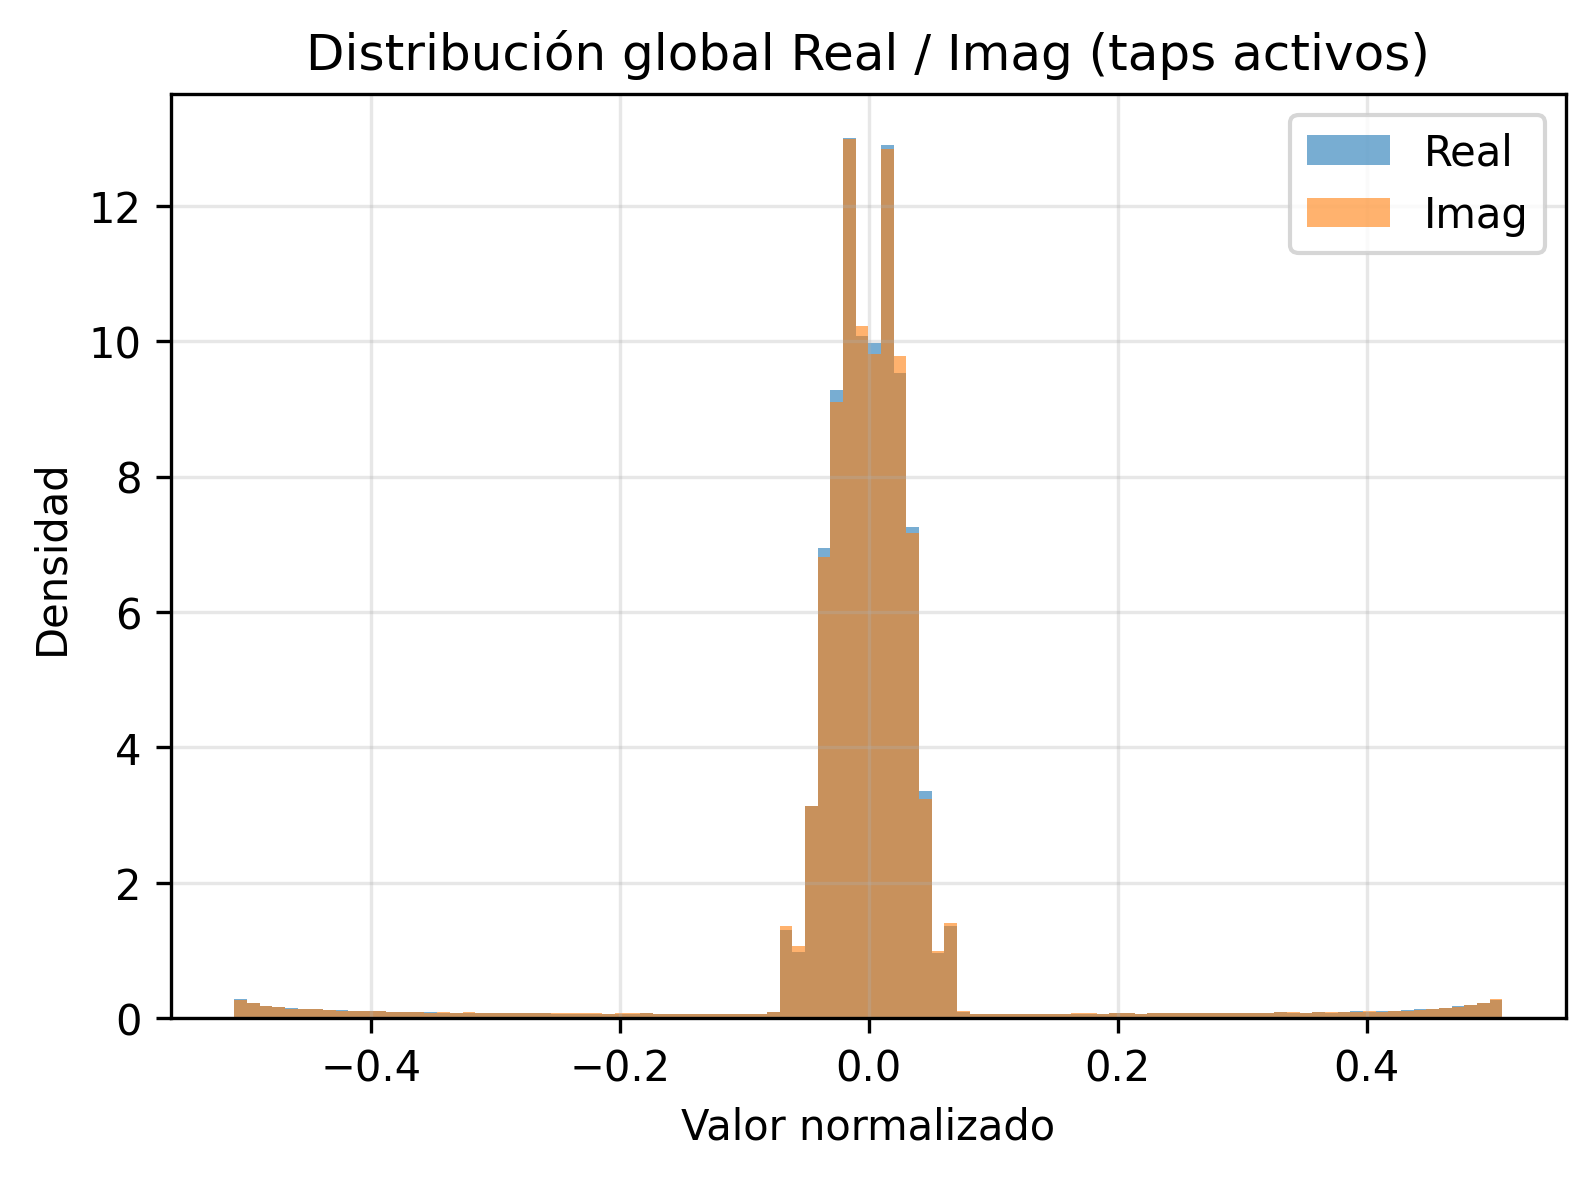
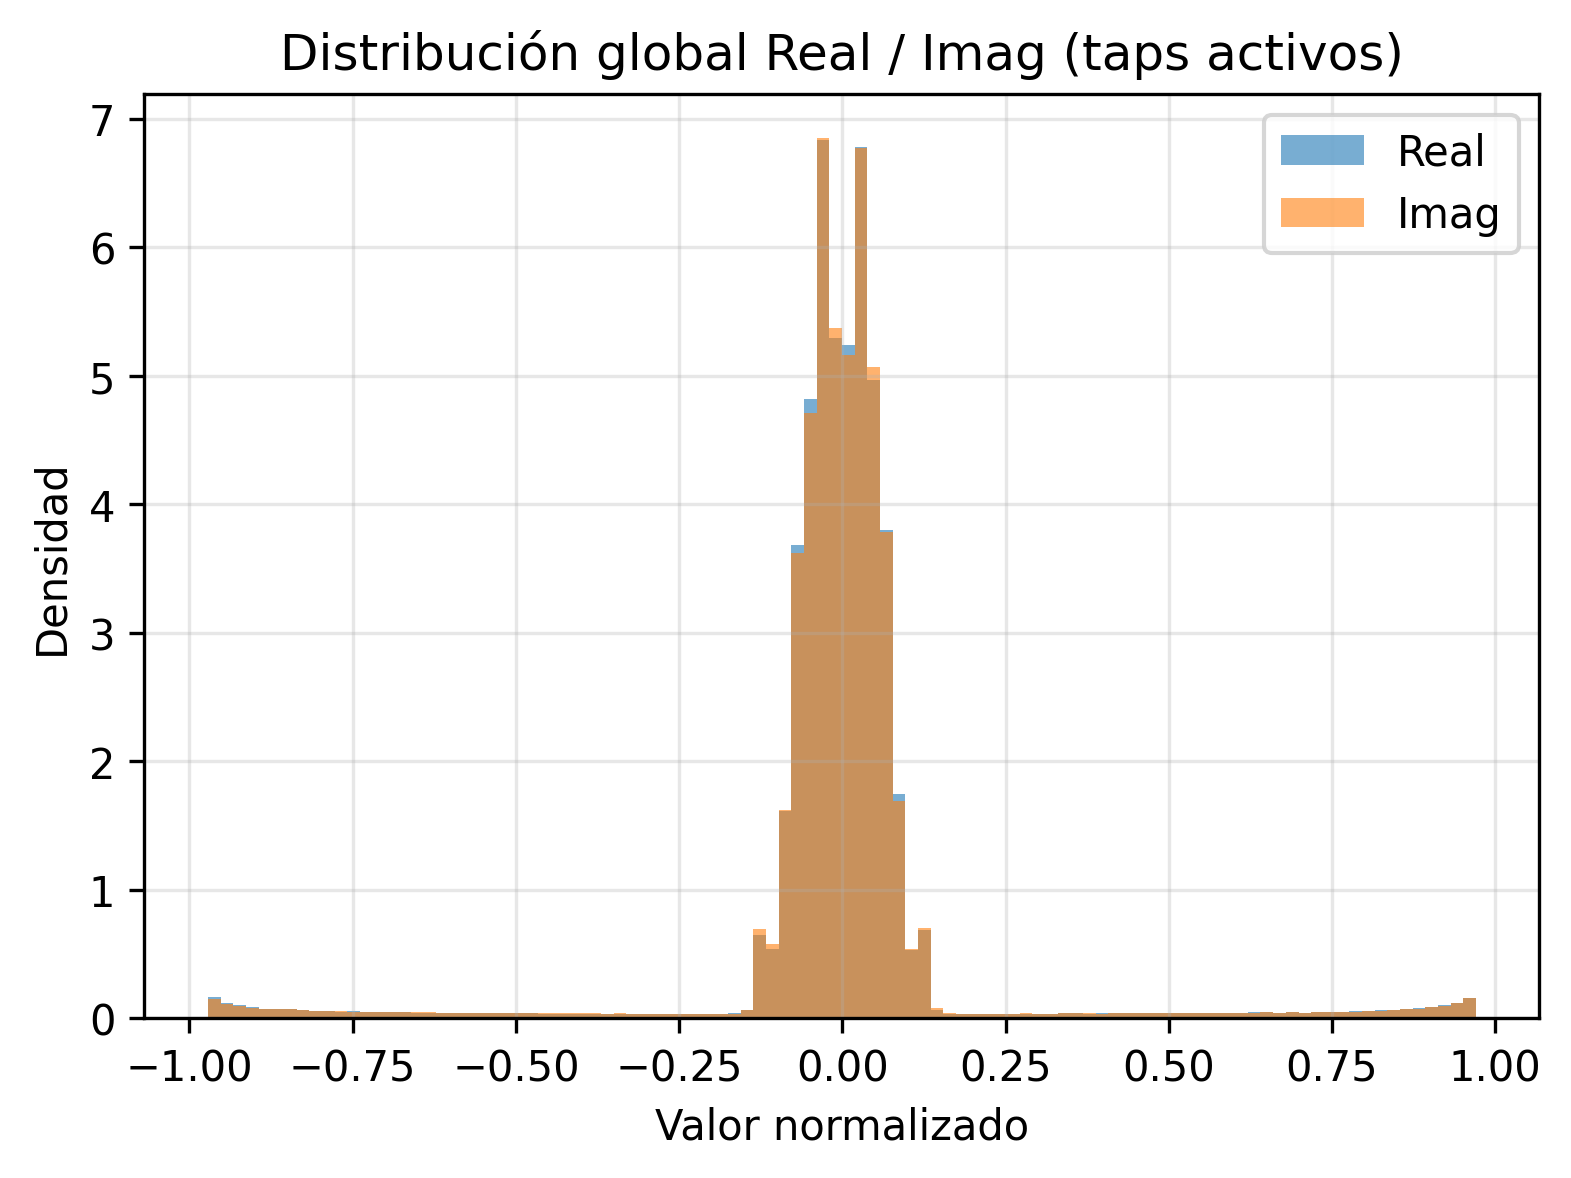
preprocess sinteticos

diff --git a/preprocess_dataset.py b/preprocess_dataset.py
@@ -61,16 +61,20 @@ def load_synthetic_data(file_path, L=128, save_path="data/datos_sinteticos/TDL_D
     H = H.T # (100000, 128)
     print(f"Shape canales: {H.shape}")
 
-    H_real = np.real(H)
-    H_imag = np.imag(H)
+    # 1. normalización física del canal
+    power = np.mean(np.abs(H) ** 2, axis=1, keepdims=True)
+    H = H / np.sqrt(power + 1e-12)
 
-    dataset = np.stack([H_real, H_imag], axis=1).astype(np.float32)
-    print("Shape dataset:", dataset.shape)
+    # 2. evita outliers
+    scale = np.percentile(np.abs(H), 99)
+    H = H / (scale + 1e-12)
 
-    # [-1, 1] global
+    # 3. pasar a real/imag
+    dataset = np.stack([H.real, H.imag], axis=1)
+    print("Shape dataset final:", dataset.shape)
+
     max_abs = np.max(np.abs(dataset))
     dataset = dataset / (max_abs + 1e-12)
-
     print("Rango final:", dataset.min(), dataset.max())
 
     os.makedirs(os.path.dirname(save_path), exist_ok=True)
@@ -165,7 +169,7 @@ def load_nist_data(mat_path, L=128, save_path="data/datos_reales/dataset_nist.np
     print("Canales totales:", total_channels)
     print("Shape final:", dataset.shape)
 
-    # [-1, 1] normalización
+    # # [-1, 1] normalización
     max_abs = np.max(np.abs(dataset))
     dataset = dataset / (max_abs + 1e-12)
 
@@ -328,22 +332,22 @@ def analyze_dataset(data, save_dir="data/datos_sinteticos", num_examples=5, heat
     print("\nAnálisis completado.")
 
 if __name__ == "__main__":
-    # data_sintetico = load_synthetic_data(
-    #     "data/datos_sinteticos/TDL_D_85ns_fd1000_SNR20_h_real.npy",
-    #     L=128,
-    #     save_path="data/datos_sinteticos/dataset_synthetic.npy"
-    # )
-    # data_loopback = load_loopback_data(
-    #     "data/datos_loopback/new_ch_time_worst.mat",
-    #     L=200,
-    #     save_path="data/datos_loopback/new_ch_time_worst.npy"
-    # )
-    data_nist = load_nist_data(
-        "data/datos_reales/NIST_Samples.mat",
+    data_sintetico = load_synthetic_data(
+        "data/datos_sinteticos/TDL_D_85ns_fd1000_SNR20_h_real.npy",
         L=128,
-        save_path="data/datos_NIST/h_AAplant_5G/h_AAplant_5G.npy"
+        save_path="data/datos_sinteticos/dataset_synthetic.npy"
+    )
+    data_loopback = load_loopback_data(
+        "data/datos_loopback/new_ch_time_worst.mat",
+        L=200,
+        save_path="data/datos_loopback/new_ch_time_worst.npy"
+    )
+    data_nist = load_nist_data(
+        "data/datos_NIST/NIST_Samples.mat",
+        L=128,
+        save_path="data/datos_NIST/h_AAplant_5G.npy"
     )
 
-    #analyze_dataset(data_sintetico, save_dir="data/datos_sinteticos", filtrar_zeros=True,  eps=1e-6)
-    #analyze_dataset(data_loopback,  save_dir="data/datos_loopback",   filtrar_zeros=False)
-    analyze_dataset(data_nist, save_dir="data/datos_NIST/h_AAplant_5G",     filtrar_zeros=True,  eps=1e-4)
+    analyze_dataset(data_sintetico, save_dir="data/datos_sinteticos", filtrar_zeros=True,  eps=1e-6)
+    analyze_dataset(data_loopback,  save_dir="data/datos_loopback",   filtrar_zeros=False)
+    analyze_dataset(data_nist, save_dir="data/datos_NIST/h_AAplant_5G", filtrar_zeros=True,  eps=1e-4)
